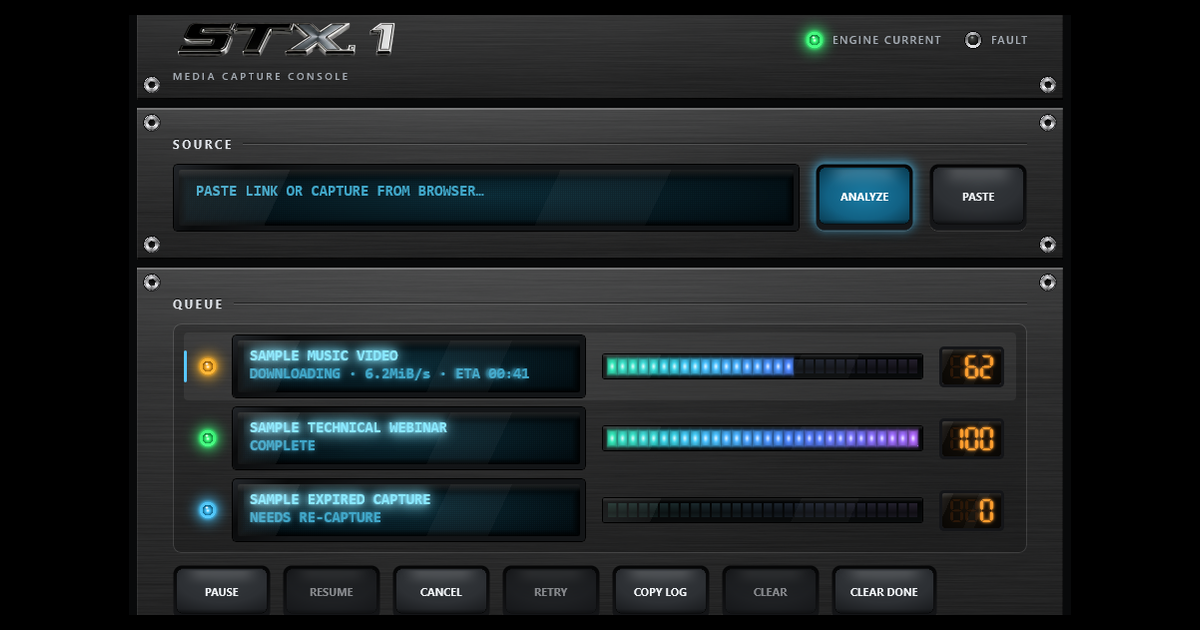
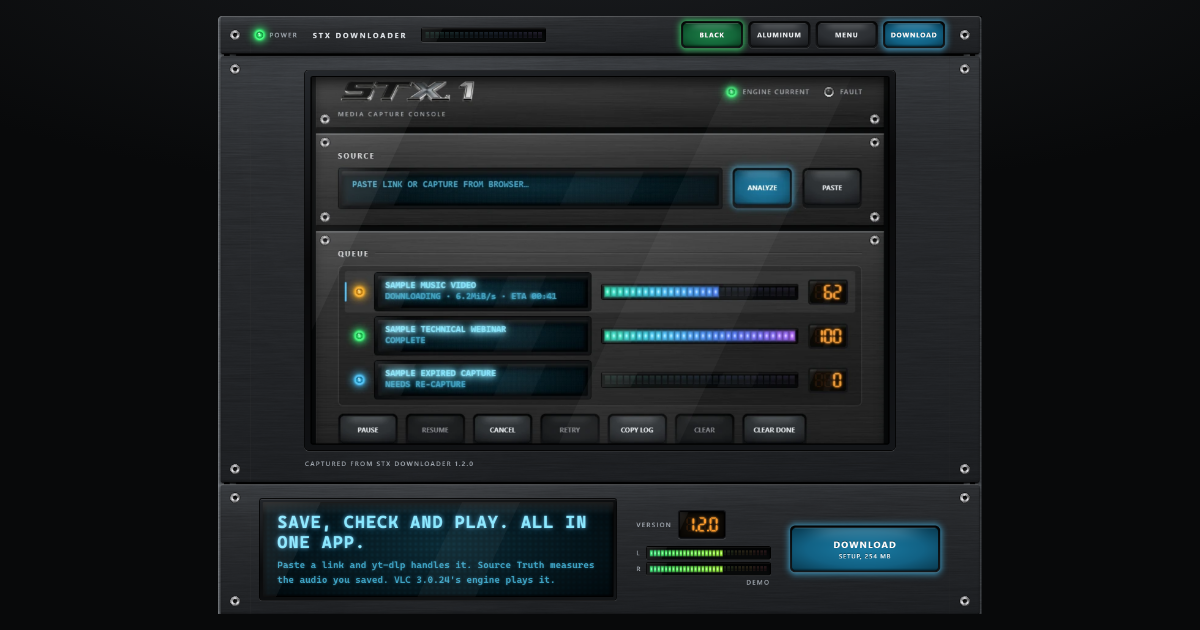
feat(site): SEO and GEO files, README pointed at the new captures
- sitemap.xml (the page, llms.txt, llms-full.txt), robots.txt, site.webmanifest, and llms.txt / llms-full.txt
  written from the claims the page makes. A new 1200x630 social card from the dark hero.
- The head gains keywords, a 157-character description, an llms.txt link, and JSON-LD for the publisher,
  the website, the page and the app (Organization, WebSite, WebPage, SoftwareApplication).
- check-site requires llms.txt and llms-full.txt and their sitemap entries, and holds any release fact
  written in them (file names, hashes, "version x.y.z") to the README's download table.
- README images point at site/screens/, and the player's alt text says PAUSE, as the 1.2.0 capture shows.
  site/screenshots/ is retired. The CHANGELOG records the rebuild.
- docs/THIRD_PARTY.md writes the upstream CascadiaMono.ttf as plain text, since it isn't a file in this
  repository (DocsTests read it as a code name).
- The build commands on the page wrap on a phone rather than scroll sideways.

diff --git a/site/index.html b/site/index.html
@@ -4,7 +4,8 @@
 <meta charset="utf-8">
 <meta name="viewport" content="width=device-width, initial-scale=1">
 <title>STX Downloader: save, check and play media on Windows</title>
-<meta name="description" content="Open-source Windows app that saves media you're allowed to keep, tells you what its audio really is, and plays it all on VLC's engine.">
+<meta name="description" content="Open-source Windows app that saves media you're allowed to keep from YouTube and web pages, tells you what its audio really is, and plays it on VLC's engine.">
+<meta name="keywords" content="STX Downloader, Windows media downloader, yt-dlp, VLC engine, media player, Source Truth, audio analysis, bit-perfect, open source, MIT, Strategia-X">
 <meta name="robots" content="index, follow, max-image-preview:large">
 <meta name="author" content="Rocky Elsalaymeh, Strategia-X">
 <meta name="color-scheme" content="dark light">
@@ -14,18 +15,19 @@
 <link rel="icon" type="image/png" sizes="32x32" href="img/icon-32.png">
 <link rel="apple-touch-icon" href="img/icon-180.png">
 <link rel="manifest" href="site.webmanifest">
+<link rel="alternate" type="text/plain" title="llms.txt" href="llms.txt">
 <meta property="og:type" content="website">
 <meta property="og:site_name" content="STX Downloader">
 <meta property="og:title" content="STX Downloader: save, check and play. All in one app.">
-<meta property="og:description" content="Open-source Windows app that saves media you're allowed to keep, tells you what its audio really is, and plays it all on VLC's engine.">
+<meta property="og:description" content="Open-source Windows app that saves media you're allowed to keep from YouTube and web pages, tells you what its audio really is, and plays it on VLC's engine.">
 <meta property="og:url" content="https://git-rocky-stack.github.io/STX-Downloader/">
 <meta property="og:image" content="https://git-rocky-stack.github.io/STX-Downloader/img/social-card.png">
 <meta property="og:image:width" content="1200">
 <meta property="og:image:height" content="630">
-<meta property="og:image:alt" content="STX Downloader's console">
+<meta property="og:image:alt" content="The STX Downloader project page: the rack strip, the console behind glass, and the download unit with its lit DOWNLOAD pad">
 <meta name="twitter:card" content="summary_large_image">
 <meta name="twitter:title" content="STX Downloader: save, check and play. All in one app.">
-<meta name="twitter:description" content="Open-source Windows app that saves media you're allowed to keep, tells you what its audio really is, and plays it all on VLC's engine.">
+<meta name="twitter:description" content="Open-source Windows app that saves media you're allowed to keep from YouTube and web pages, tells you what its audio really is, and plays it on VLC's engine.">
 <meta name="twitter:image" content="https://git-rocky-stack.github.io/STX-Downloader/img/social-card.png">
 <link rel="preload" as="image" href="art/grain-dark@1x.png" media="(max-width: 699px) and (prefers-color-scheme: dark)" fetchpriority="high">
 <link rel="preload" as="image" href="art/grain-light@1x.png" media="(max-width: 699px) and (prefers-color-scheme: light)" fetchpriority="high">
@@ -43,20 +45,73 @@ try { var f = localStorage.getItem('stx-finish'); if (f === 'dark' || f === 'lig
 <script type="application/ld+json">
 {
   "@context": "https://schema.org",
-  "@type": "SoftwareApplication",
-  "name": "STX Downloader",
-  "url": "https://git-rocky-stack.github.io/STX-Downloader/",
-  "description": "A Windows app that saves media you're allowed to keep, from YouTube and from web pages, tells you what the audio really is, and plays your whole collection with VLC's engine.",
-  "applicationCategory": "MultimediaApplication",
-  "operatingSystem": "Windows 10, Windows 11",
-  "softwareVersion": "1.2.0",
-  "downloadUrl": "https://github.com/Git-Rocky-Stack/STX-Downloader/releases/download/v1.2.0/STXDownloader-1.2.0-setup.exe",
-  "license": "https://github.com/Git-Rocky-Stack/STX-Downloader/blob/main/LICENSE",
-  "isAccessibleForFree": true,
-  "offers": { "@type": "Offer", "price": "0", "priceCurrency": "USD" },
-  "author": { "@type": "Person", "name": "Rocky Elsalaymeh" },
-  "publisher": { "@type": "Organization", "name": "Strategia-X" },
-  "codeRepository": "https://github.com/Git-Rocky-Stack/STX-Downloader"
+  "@graph": [
+    {
+      "@type": "Organization",
+      "@id": "https://git-rocky-stack.github.io/STX-Downloader/#publisher",
+      "name": "Strategia-X",
+      "url": "https://strategia-x.com/",
+      "email": "support@strategia-x.com"
+    },
+    {
+      "@type": "WebSite",
+      "@id": "https://git-rocky-stack.github.io/STX-Downloader/#website",
+      "url": "https://git-rocky-stack.github.io/STX-Downloader/",
+      "name": "STX Downloader",
+      "inLanguage": "en",
+      "publisher": {
+        "@id": "https://git-rocky-stack.github.io/STX-Downloader/#publisher"
+      }
+    },
+    {
+      "@type": "WebPage",
+      "@id": "https://git-rocky-stack.github.io/STX-Downloader/#webpage",
+      "url": "https://git-rocky-stack.github.io/STX-Downloader/",
+      "name": "STX Downloader: save, check and play media on Windows",
+      "description": "Open-source Windows app that saves media you're allowed to keep from YouTube and web pages, tells you what its audio really is, and plays it on VLC's engine.",
+      "inLanguage": "en",
+      "isPartOf": {
+        "@id": "https://git-rocky-stack.github.io/STX-Downloader/#website"
+      },
+      "about": {
+        "@id": "https://git-rocky-stack.github.io/STX-Downloader/#app"
+      },
+      "primaryImageOfPage": {
+        "@type": "ImageObject",
+        "url": "https://git-rocky-stack.github.io/STX-Downloader/img/social-card.png",
+        "width": 1200,
+        "height": 630
+      },
+      "dateModified": "2026-11-15"
+    },
+    {
+      "@type": "SoftwareApplication",
+      "@id": "https://git-rocky-stack.github.io/STX-Downloader/#app",
+      "name": "STX Downloader",
+      "url": "https://git-rocky-stack.github.io/STX-Downloader/",
+      "description": "A Windows app that saves media you're allowed to keep, from YouTube and from web pages, tells you what the audio really is, and plays your whole collection with VLC's engine.",
+      "applicationCategory": "MultimediaApplication",
+      "operatingSystem": "Windows 10, Windows 11",
+      "softwareVersion": "1.2.0",
+      "downloadUrl": "https://github.com/Git-Rocky-Stack/STX-Downloader/releases/download/v1.2.0/STXDownloader-1.2.0-setup.exe",
+      "screenshot": "https://git-rocky-stack.github.io/STX-Downloader/screens/console-dark.png",
+      "license": "https://github.com/Git-Rocky-Stack/STX-Downloader/blob/main/LICENSE",
+      "isAccessibleForFree": true,
+      "offers": {
+        "@type": "Offer",
+        "price": "0",
+        "priceCurrency": "USD"
+      },
+      "author": {
+        "@type": "Person",
+        "name": "Rocky Elsalaymeh"
+      },
+      "publisher": {
+        "@id": "https://git-rocky-stack.github.io/STX-Downloader/#publisher"
+      },
+      "codeRepository": "https://github.com/Git-Rocky-Stack/STX-Downloader"
+    }
+  ]
 }
 </script>
 </head>

diff --git a/site/css/stx.css b/site/css/stx.css
@@ -423,7 +423,7 @@ html:not(.js) [data-copy]{display:none}
 .releases .vfd{padding:10px 20px}
 .rel-h{font-weight:700!important;letter-spacing:.08em!important;margin-bottom:4px!important}
 .rel-h .dim{font-weight:400;margin-left:16px}
-.build pre{margin:12px 0 0;overflow-x:auto;font:400 15px/1.6 var(--mono);color:#8ae8ff;text-shadow:0 0 4px rgba(88,199,255,.35)}
+.build pre{margin:12px 0 0;white-space:pre-wrap;overflow-wrap:anywhere;font:400 15px/1.6 var(--mono);color:#8ae8ff;text-shadow:0 0 4px rgba(88,199,255,.35)}
 .build pre code{font:inherit}
 
 /* Footer: a blank panel with the engraved line and links */

diff --git a/CHANGELOG.md b/CHANGELOG.md
@@ -2,12 +2,20 @@
 
 ## Unreleased
 
+### The project page, rebuilt as a rack (2026-11-15)
+
+- **The page is rebuilt from the ground up** as a piece of rack gear, in a black and an aluminum finish (`site/index.html`, `site/css/stx.css`, `site/js/stx.js`). Nothing is kept from the first page.
+- **Its screws, LEDs, meter segments, digits, pads and brushed grain are drawn by the app's own art code** (`tools/site/SiteArt`, into `site/art/`). `build.yml` redraws them and fails when the committed images differ (`--check`).
+- **Every screen is captured from 1.2.0 in both finishes** (`site/screens/`), and the README points there. The first page's `site/screenshots/` is gone.
+- **`tools/site/check-site.mjs` is rewritten for this page.** It holds the page to the README's download table: the version, file names, sizes, SHA-256 hashes and links, in its attributes, the text people read, its structured data and its `llms` files. A release that forgets the page can't publish it.
+- **The page serves its own fonts**, Cascadia Mono and Selawik, under the SIL Open Font License (`site/fonts/`, [third-party software](docs/THIRD_PARTY.md)).
+
 ### Public, with a project page (2026-11-15)
 
 - **The repository is public**, under the MIT license it always had (`LICENSE`).
 - **A project page** at https://git-rocky-stack.github.io/STX-Downloader/: what STX does, screens of every plate, both 1.2.0 downloads with their SHA-256, the release history, and what has and hasn't been tested. It's a single static page in `site/`, published by `.github/workflows/pages.yml` on every push to main that touches it, with a sitemap, `robots.txt`, `llms.txt`, `llms-full.txt`, structured data, and an IndexNow ping after each publish.
 - **`tools/site/check-site.mjs` gates the publish.** It fails on a file the page points at that isn't there, an image without alt text or size, a missing search or social tag, structured data that doesn't parse, a sitemap that doesn't match `site/`, or an em dash or emoji in the page, its text files or the README. A missing image, a sitemap entry for a file that isn't there, an em dash and an emoji were each injected and caught; the alt text, tag and structured-data checks weren't tried that way.
-- **The screens are new captures from 1.2.0**, drawn by the app's own panels on sample data (`tools/Capture-Gallery.ps1`), in `site/screenshots/`. The README shows five of them, and links both downloads with their hashes.
+- **The screens are new captures from 1.2.0**, drawn by the app's own panels on sample data (`tools/Capture-Gallery.ps1`), in `site/screenshots/` (since moved to `site/screens/`, above). The README shows five of them, and links both downloads with their hashes.
 - **The README** gains a download table, the Screens section, and Contributing.
 
 ## 1.2.0 (2026-11-15)

diff --git a/README.md b/README.md
@@ -4,7 +4,7 @@ A Windows app that saves media you're allowed to keep, from YouTube and from web
 
 **[Download 1.2.0](https://github.com/Git-Rocky-Stack/STX-Downloader/releases/tag/v1.2.0)** · [Project page](https://git-rocky-stack.github.io/STX-Downloader/) · [Changelog](CHANGELOG.md) · [MIT license](LICENSE)
 
-![The STX console: the header with ENGINE CURRENT lit, the Source plate, and a Queue of three jobs with their meters](site/screenshots/console-dark.png)
+![The STX console: the header with ENGINE CURRENT lit, the Source plate, and a Queue of three jobs with their meters](site/screens/console-dark.png)
 
 > [!IMPORTANT]
 > **DRM is out of scope.** STX doesn't save or play DRM-protected media. When it sees DRM, it says so and stops.
@@ -73,12 +73,12 @@ Captured from 1.2.0. Each screen is drawn by the app's own panels on sample data
 
 | | |
 |---|---|
-| ![The Source Truth plate: AAC 386 kbps, 48 kHz, 6 channels, roll-off 17.8 kHz, minus 14.2 LUFS, a spectrum, level meters and the OUTPUT FORMAT knob](site/screenshots/source-truth.png) | ![The PLAYER plate: a test picture, the time, VOLUME and ENHANCE knobs, and the PREV, PLAY, NEXT, STOP and FULL pads](site/screenshots/player.png) |
+| ![The Source Truth plate: AAC 386 kbps, 48 kHz, 6 channels, roll-off 17.8 kHz, minus 14.2 LUFS, a spectrum, level meters and the OUTPUT FORMAT knob](site/screens/sourcetruth-dark.png) | ![The PLAYER plate: a test picture, the time, VOLUME and ENHANCE knobs, and the PREV, PAUSE, NEXT, STOP and FULL pads](site/screens/player-dark.png) |
 | **Source Truth** measures the audio and gives a plain verdict. | **Player**, on VLC's engine, with ENHANCE. |
-| ![The LIBRARY plate: search, three rows with one FILE MISSING, its pads, and the SHRINK TO knob](site/screenshots/library.png) | ![The SETTINGS plate: quality and parallel-download knobs, switches, folders, PERFORMANCE and BIT-PERFECT](site/screenshots/settings.png) |
+| ![The LIBRARY plate: search, three rows with one FILE MISSING, its pads, and the SHRINK TO knob](site/screens/library-dark.png) | ![The SETTINGS plate: quality and parallel-download knobs, switches, folders, PERFORMANCE and BIT-PERFECT](site/screens/settings-dark.png) |
 | **Library**, your whole collection. | **Settings**, with USER GUIDE and TUTORIALS. |
 
-![A tutorial on the live console: a spotlight on the Queue's CLEAR pad and a card reading MANAGING THE QUEUE, step 5 of 7](site/screenshots/tutorial.png)
+![A tutorial on the live console: a spotlight on the Queue's CLEAR pad and a card reading MANAGING THE QUEUE, step 5 of 7](site/screens/tutorial-dark.png)
 
 ## What it does
 

diff --git a/docs/THIRD_PARTY.md b/docs/THIRD_PARTY.md
@@ -47,7 +47,7 @@ The project site (`site/`) serves its own copies of two fonts and loads nothing 
 
 | Font | Used for | Source | License |
 |---|---|---|---|
-| Cascadia Mono 2407.24 (the variable `CascadiaMono.ttf`, `wght` axis 200 to 700, default 400) | The page's display windows | [microsoft/cascadia-code](https://github.com/microsoft/cascadia-code/releases/tag/v2407.24) | [SIL OFL 1.1](https://github.com/microsoft/cascadia-code/blob/v2407.24/LICENSE), "with Reserved Font Name Cascadia Code" |
+| Cascadia Mono 2407.24 (the variable CascadiaMono.ttf from that release, `wght` axis 200 to 700, default 400) | The page's display windows | [microsoft/cascadia-code](https://github.com/microsoft/cascadia-code/releases/tag/v2407.24) | [SIL OFL 1.1](https://github.com/microsoft/cascadia-code/blob/v2407.24/LICENSE), "with Reserved Font Name Cascadia Code" |
 | Selawik 1.01 (Regular, Semibold, Bold) | The silkscreened labels | [microsoft/Selawik](https://github.com/microsoft/Selawik/releases/tag/1.01) | [SIL OFL 1.1](https://github.com/microsoft/Selawik/blob/master/LICENSE.txt), "with Reserved Font Name Selawik" |
 
 Each file is cut down to Basic Latin, Latin-1, general punctuation and four arrows, and saved as WOFF2. That makes them Modified Versions under section 3 of the OFL, and both licenses reserve a name, so the files don't carry the originals' names. The Cascadia subset is named "STX Mono" and the Selawik subsets "STX Label" (`site/fonts/cascadia-mono.woff2`, `selawik.woff2`, `selawik-semibold.woff2`, `selawik-bold.woff2`). The copyright, license and trademark records inside the files are unchanged. Some code points in that range have no glyph in the publishers' fonts, so the subsets lack them too. Selawik (all three files) has none of U+00A0, U+00AA, U+00BA, U+2010-2012, U+2015, U+201B, U+201F, U+2032-2033, U+2190-2193 and U+2212. Cascadia Mono lacks only U+2012 and U+201F.
